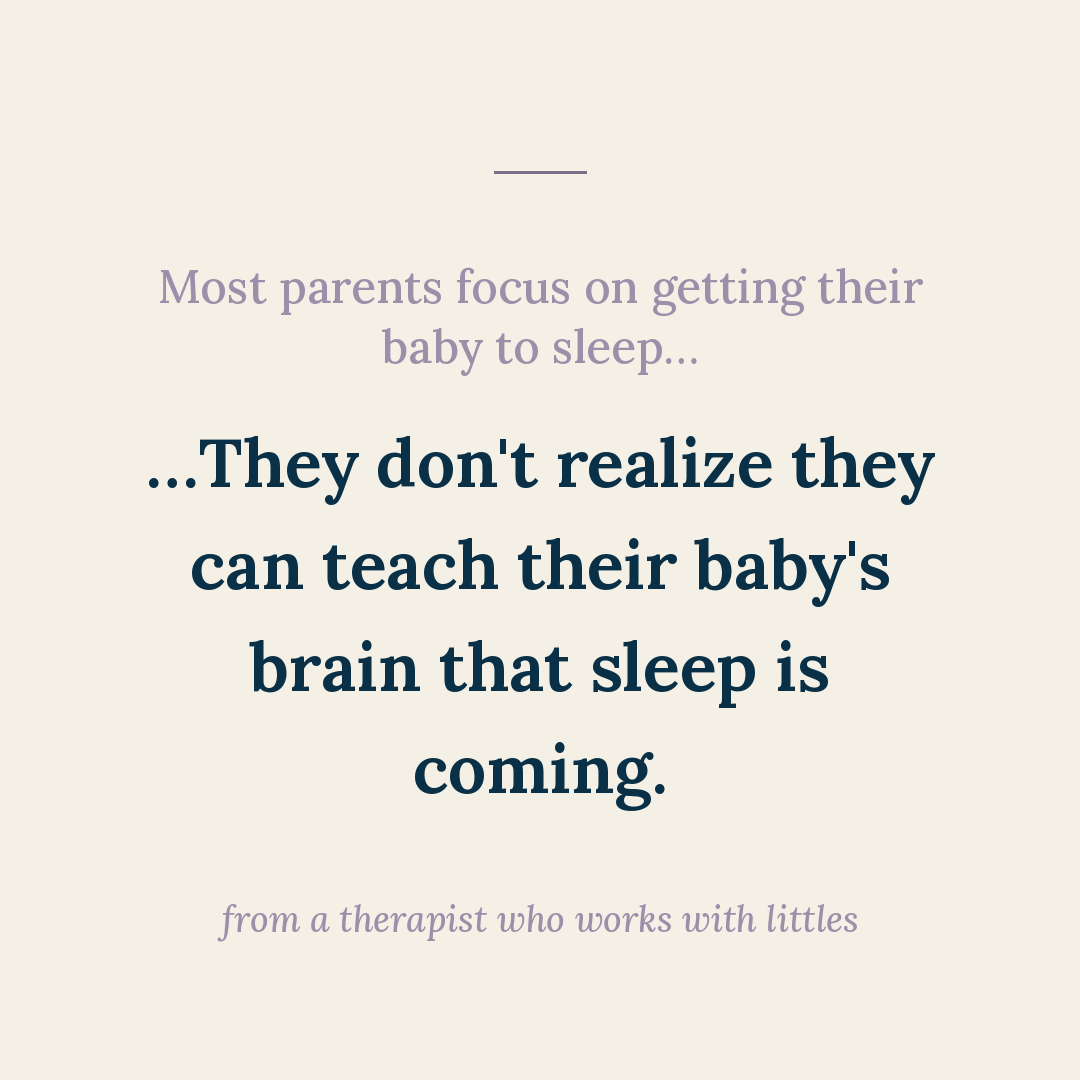
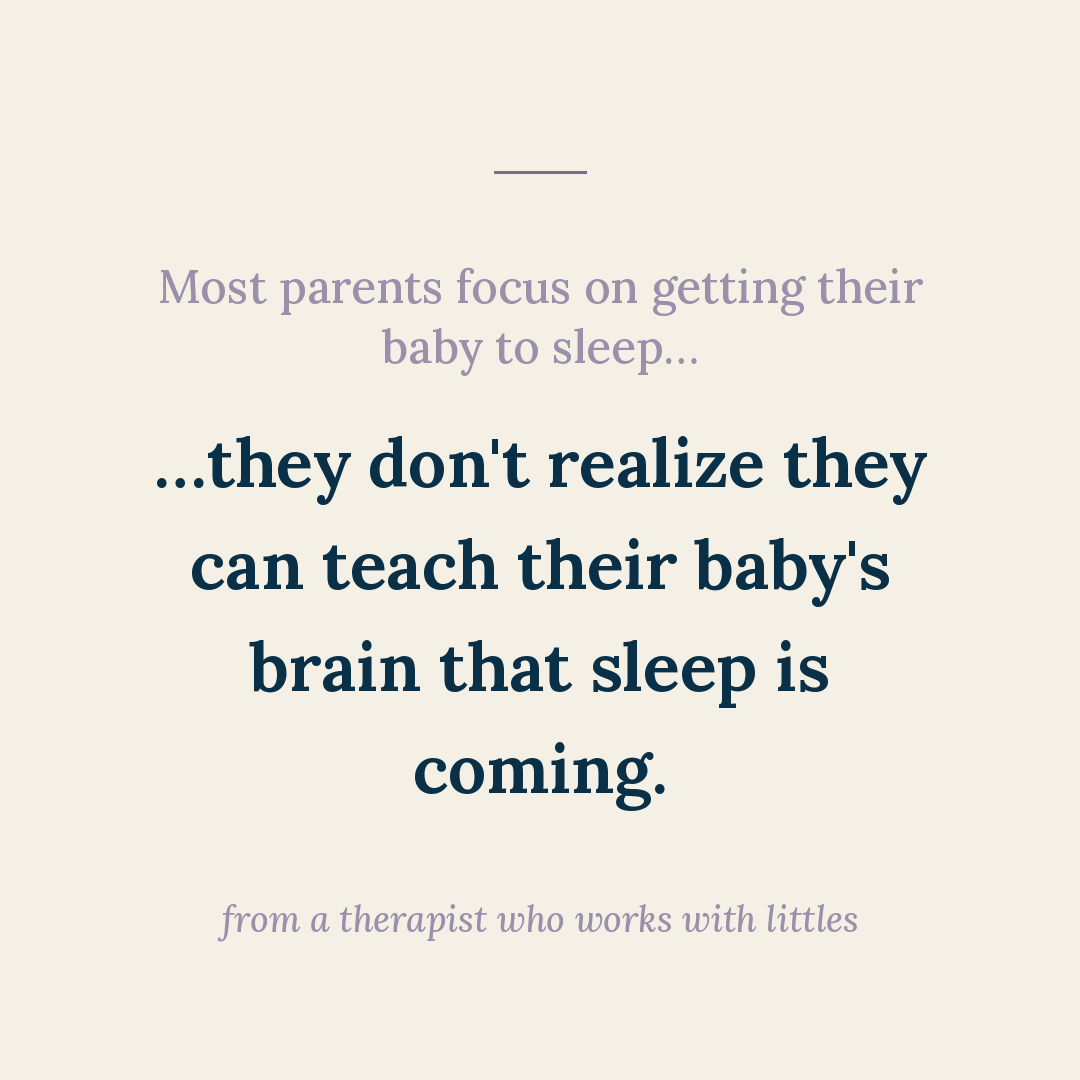
Add ad-test-teaching-sleep-is-coming (Ad Test - Teaching Sleep Is Coming)

Changed region(s): [[0.1222, 0.3972, 0.8556, 0.4889]]

diff --git a/posts/ad-test-teaching-sleep-is-coming/slides.md b/posts/ad-test-teaching-sleep-is-coming/slides.md
@@ -6,7 +6,7 @@ Cover uses the eyebrow layout (sentence 1 = lavender setup, sentence 2 = big ref
 
 ## Cover (eyebrow setup + reframe hook; ellipses continue the thought across the break)
 eyebrow: Most parents focus on getting their baby to sleep…
-hook: …They don't realize they can teach their baby's brain that sleep is coming.
+hook: …they don't realize they can teach their baby's brain that sleep is coming.
 
 ## Items
 01 — Babies learn through repetition long before they understand words.
